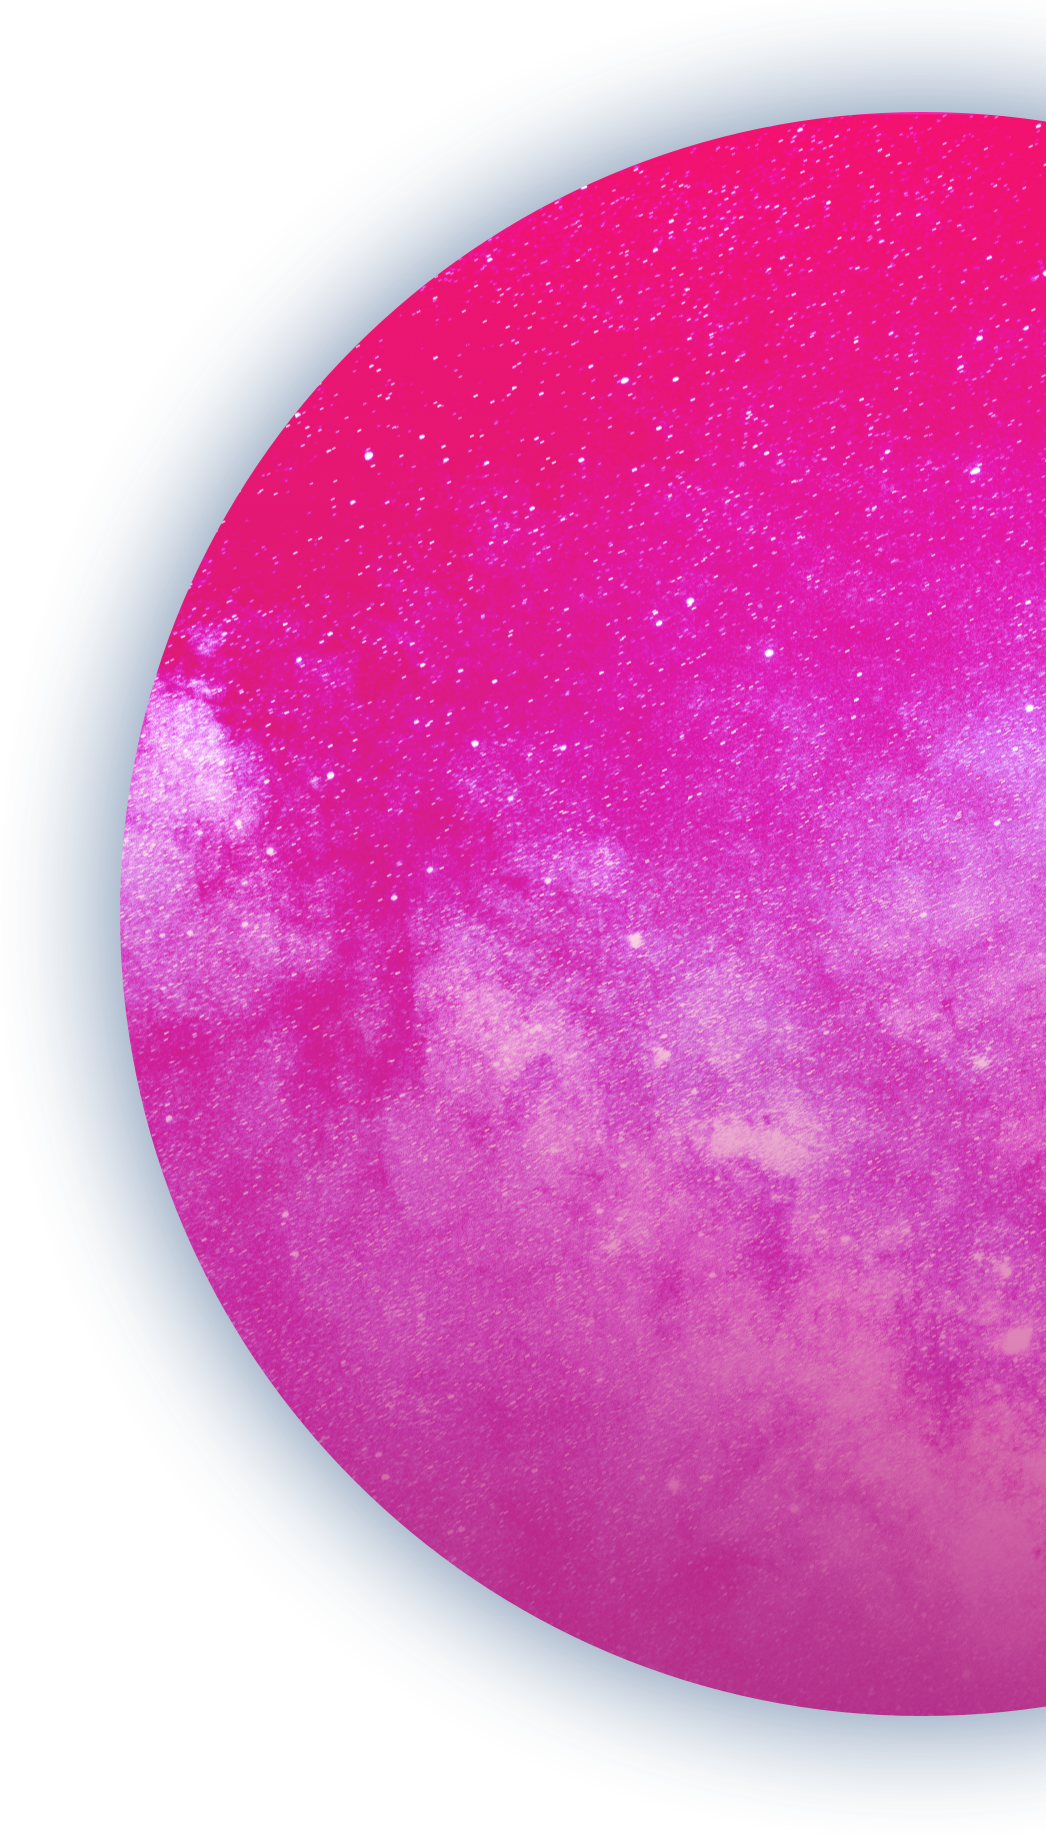
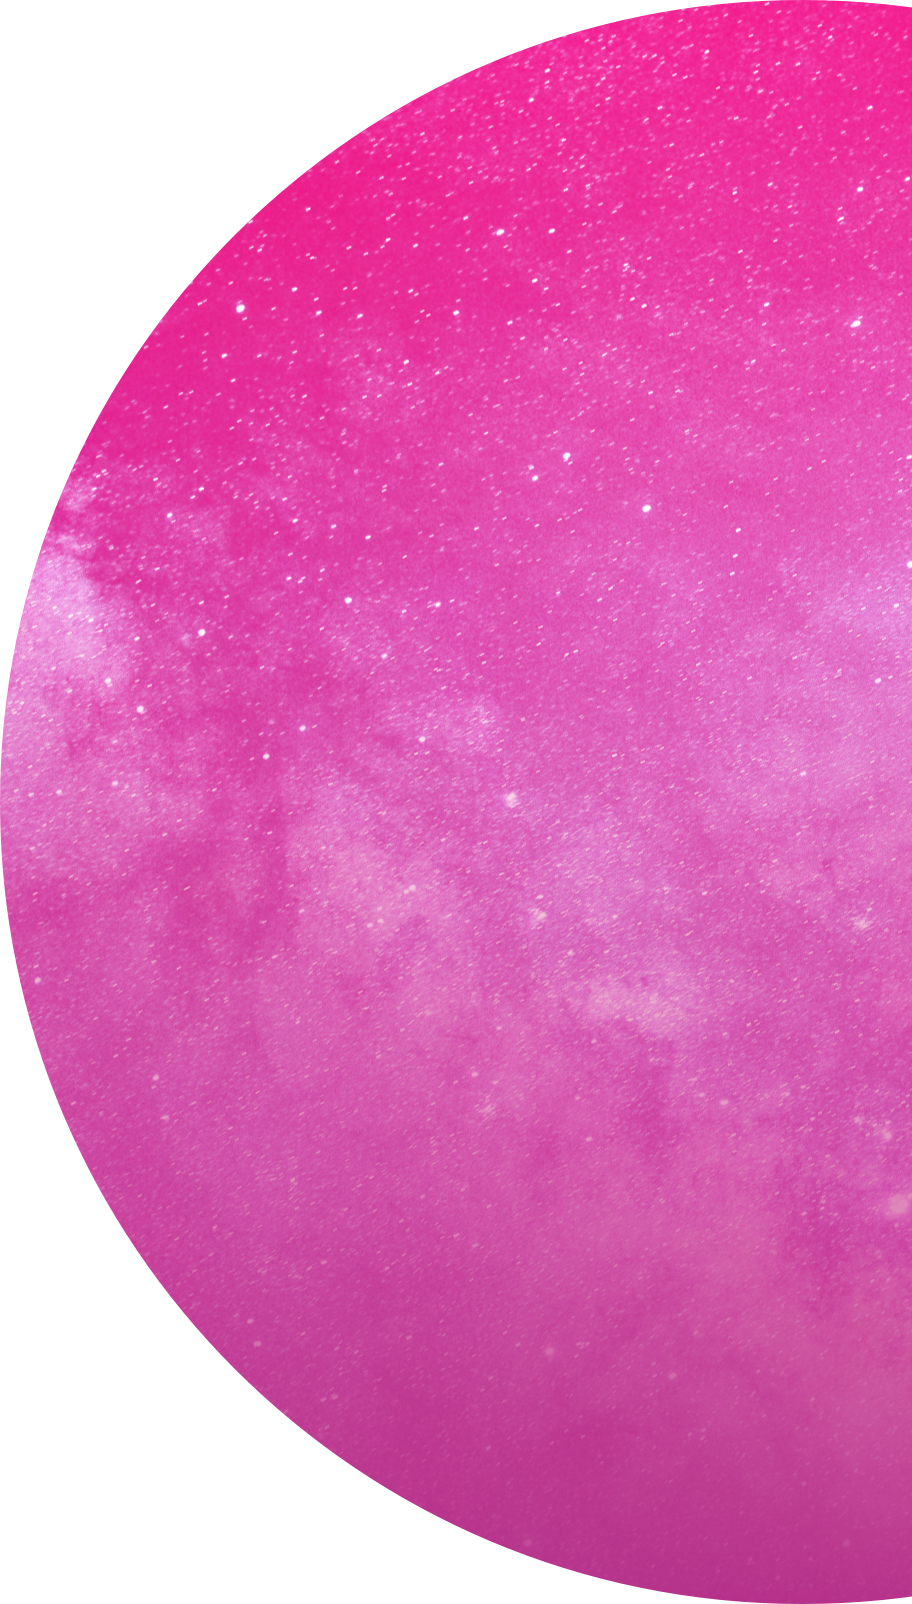
WIP

diff --git a/src/components/app-hero.vue b/src/components/app-hero.vue
@@ -8,13 +8,19 @@
         </div>
       </section>
     </app-content>
-    <figure class="app-hero__img"
-      data-aos="slide-up"
-      data-aos-duration="1500"
-      data-aos-easing="ease-in-out"
-      data-aos-anchor=".app-hero__count"
-    >
-      <img :src="require('../assets/graphics/galaxy-phase-1.png')" alt="mainnet launch">
+    <figure class="app-hero__media" >
+      <div class="wrapper" :style="{ top: '-' + moon + 'px' }">
+        <figure class="app-hero__media_galaxy">
+          <img
+            :style="{ top: '-' + galaxy + 'px'}"
+            :src="require('../assets/graphics/galaxy-phase-1.png')" alt="mainnet launch">
+        </figure>
+        <figure class="app-hero__media_moon">
+          <img
+          :style="{ top: '' + moon + 'px' }"
+          :src="require('../assets/graphics/moon-phase-1.png')" alt="phase 1">
+        </figure>
+      </div>
     </figure>
     <div class="app-hero__count">
       <div class="app-hero__count-wrapper">
@@ -23,14 +29,13 @@
       </div>
       <div class="app-hero__line"></div>
     </div>
+    <div class="number">{{ galaxy }} / {{ moon }}</div>
   </header>
 </template>
 <script>
 import Web3 from 'web3'
 import AppContent from '@/sections/app-content.vue'
-import AOS from 'aos'
-import 'aos/dist/aos.css'
-
+import _ from 'lodash'
 let $web3
 const abi = [{
   'constant': true,
@@ -53,7 +58,7 @@ const abi = [{
 
 $web3 = new Web3(new Web3.providers.HttpProvider(process.env.VUE_APP_WEB3_PROVIDER_URL))
 let aeTokenContract = new $web3.eth.Contract(abi, process.env.VUE_APP_AE_TOKEN_CONTRACT)
-
+let height = 0;
 async function getBurnedBalance () {
   let balance = await aeTokenContract
     .methods
@@ -68,24 +73,39 @@ export default {
   },
   data () {
     return {
-      burnedBalance: null
+      burnedBalance: null,
+      height: 0,
+      galaxy: 0,
+      moon: 0
     }
   },
   async created () {
     this.burnedBalance = await getBurnedBalance()
   },
   mounted () {
-    document.addEventListener('scroll', () => {
-      AOS.init({
-        mirror: true
-      })
-    })
+    window.addEventListener('scroll', _.throttle(this.animateGalaxy, 0))
+    window.addEventListener('scroll', _.throttle(this.animateMoon, 0), { passive: true })
+  },
+  destroy () {
+    window.removeEventlistener('scroll', () => this.animateMoon())
   },
   filters: {
     reduceDecimals: function (value) {
       if (!value) return ''
       value = parseFloat(value)
       return value.toFixed(2)
+    }
+  },
+  methods: {
+    animateGalaxy () {
+      let start = window.pageYOffset || document.documentElement.scrollTop
+      this.galaxy = start > height ? start += 1 : start += 1
+      height = start <= 0 ? 0 : start
+    },
+    animateMoon () {
+      let start = window.pageYOffset || document.documentElement.scrollTop
+      this.moon = start > this.height ? start += 1 : start += 1
+      this.height = start < 0 ? 0 : start
     }
   },
   components: {
@@ -109,23 +129,43 @@ export default {
       min-height: 100vh;
     }
 
-  &__img {
-    z-index: 0;
-    right: -10%;
-    top: -86%;
+  &__media {
     width: 40%;
-    max-width: 30rem;
-    position: absolute;
-    @include only-tablet {
-      top: -60%;
-      width: 50%;
-      right: -20%;
 
+    @include only-phone{
+      width: 30%;
     }
-    @include only-phone {
-      top: -50%;
-      width: 80%;
-      right: -40%;
+      &_galaxy {
+        position: absolute;
+        top: 25%;
+        width: 100%;
+        transform: translateY(-25%);
+        & > img {
+          position: absolute;
+          z-index: 0;
+          max-width: 30rem;
+        }
+      }
+    &_moon {
+      position: absolute;
+      top: 50%;
+      width: 100%;
+      transform: translateY(-50%);
+
+      @include only-phone {
+        width: 50%;
+      }
+       @include only-tablet {
+        width: 60%;
+      }
+
+      & > img {
+        z-index: 0;
+        width: 100%;
+        max-width: 30rem;
+        position: absolute;
+        left: -20%;
+      }
     }
   }
 
@@ -198,6 +238,16 @@ export default {
   @include only-phone {
     @include font-size(xxl);
   }
+}
+.wrapper {
+  position: absolute;
+  width: 100%;
+}
+.number {
+  position: fixed;
+  top: 1rem;
+  right: 1rem;
+  z-index: 1000;
 }
 
 </style>
